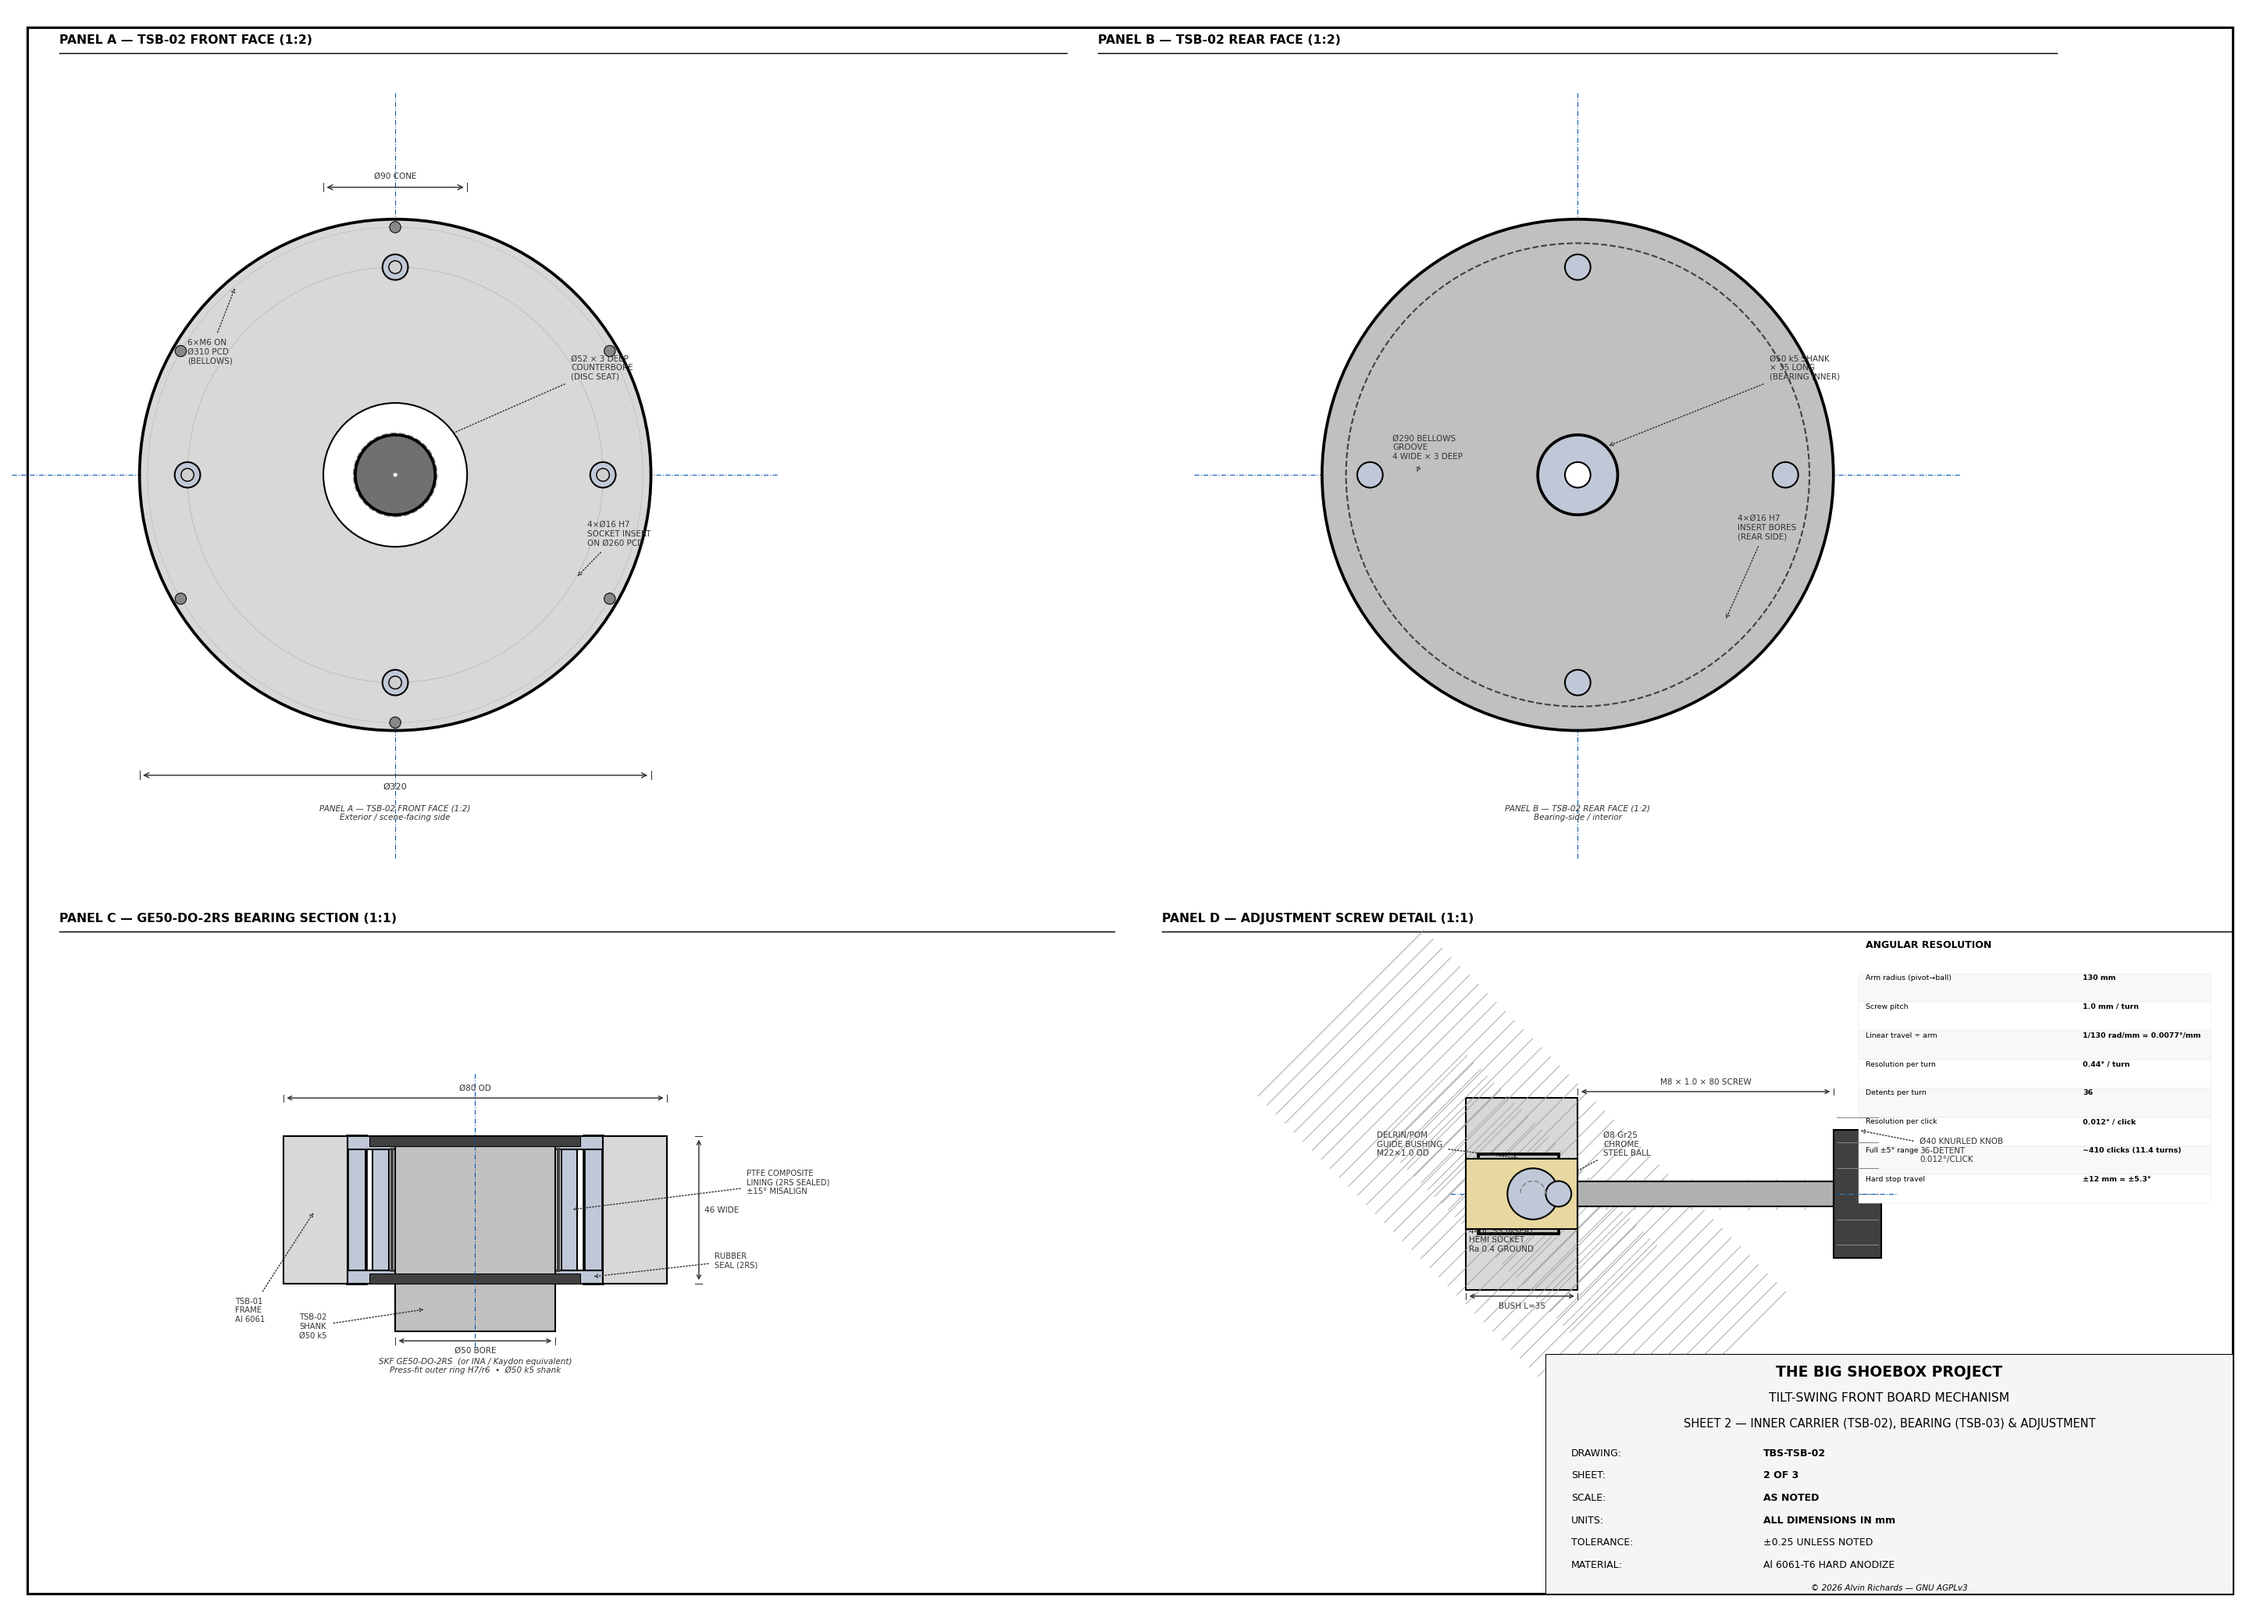
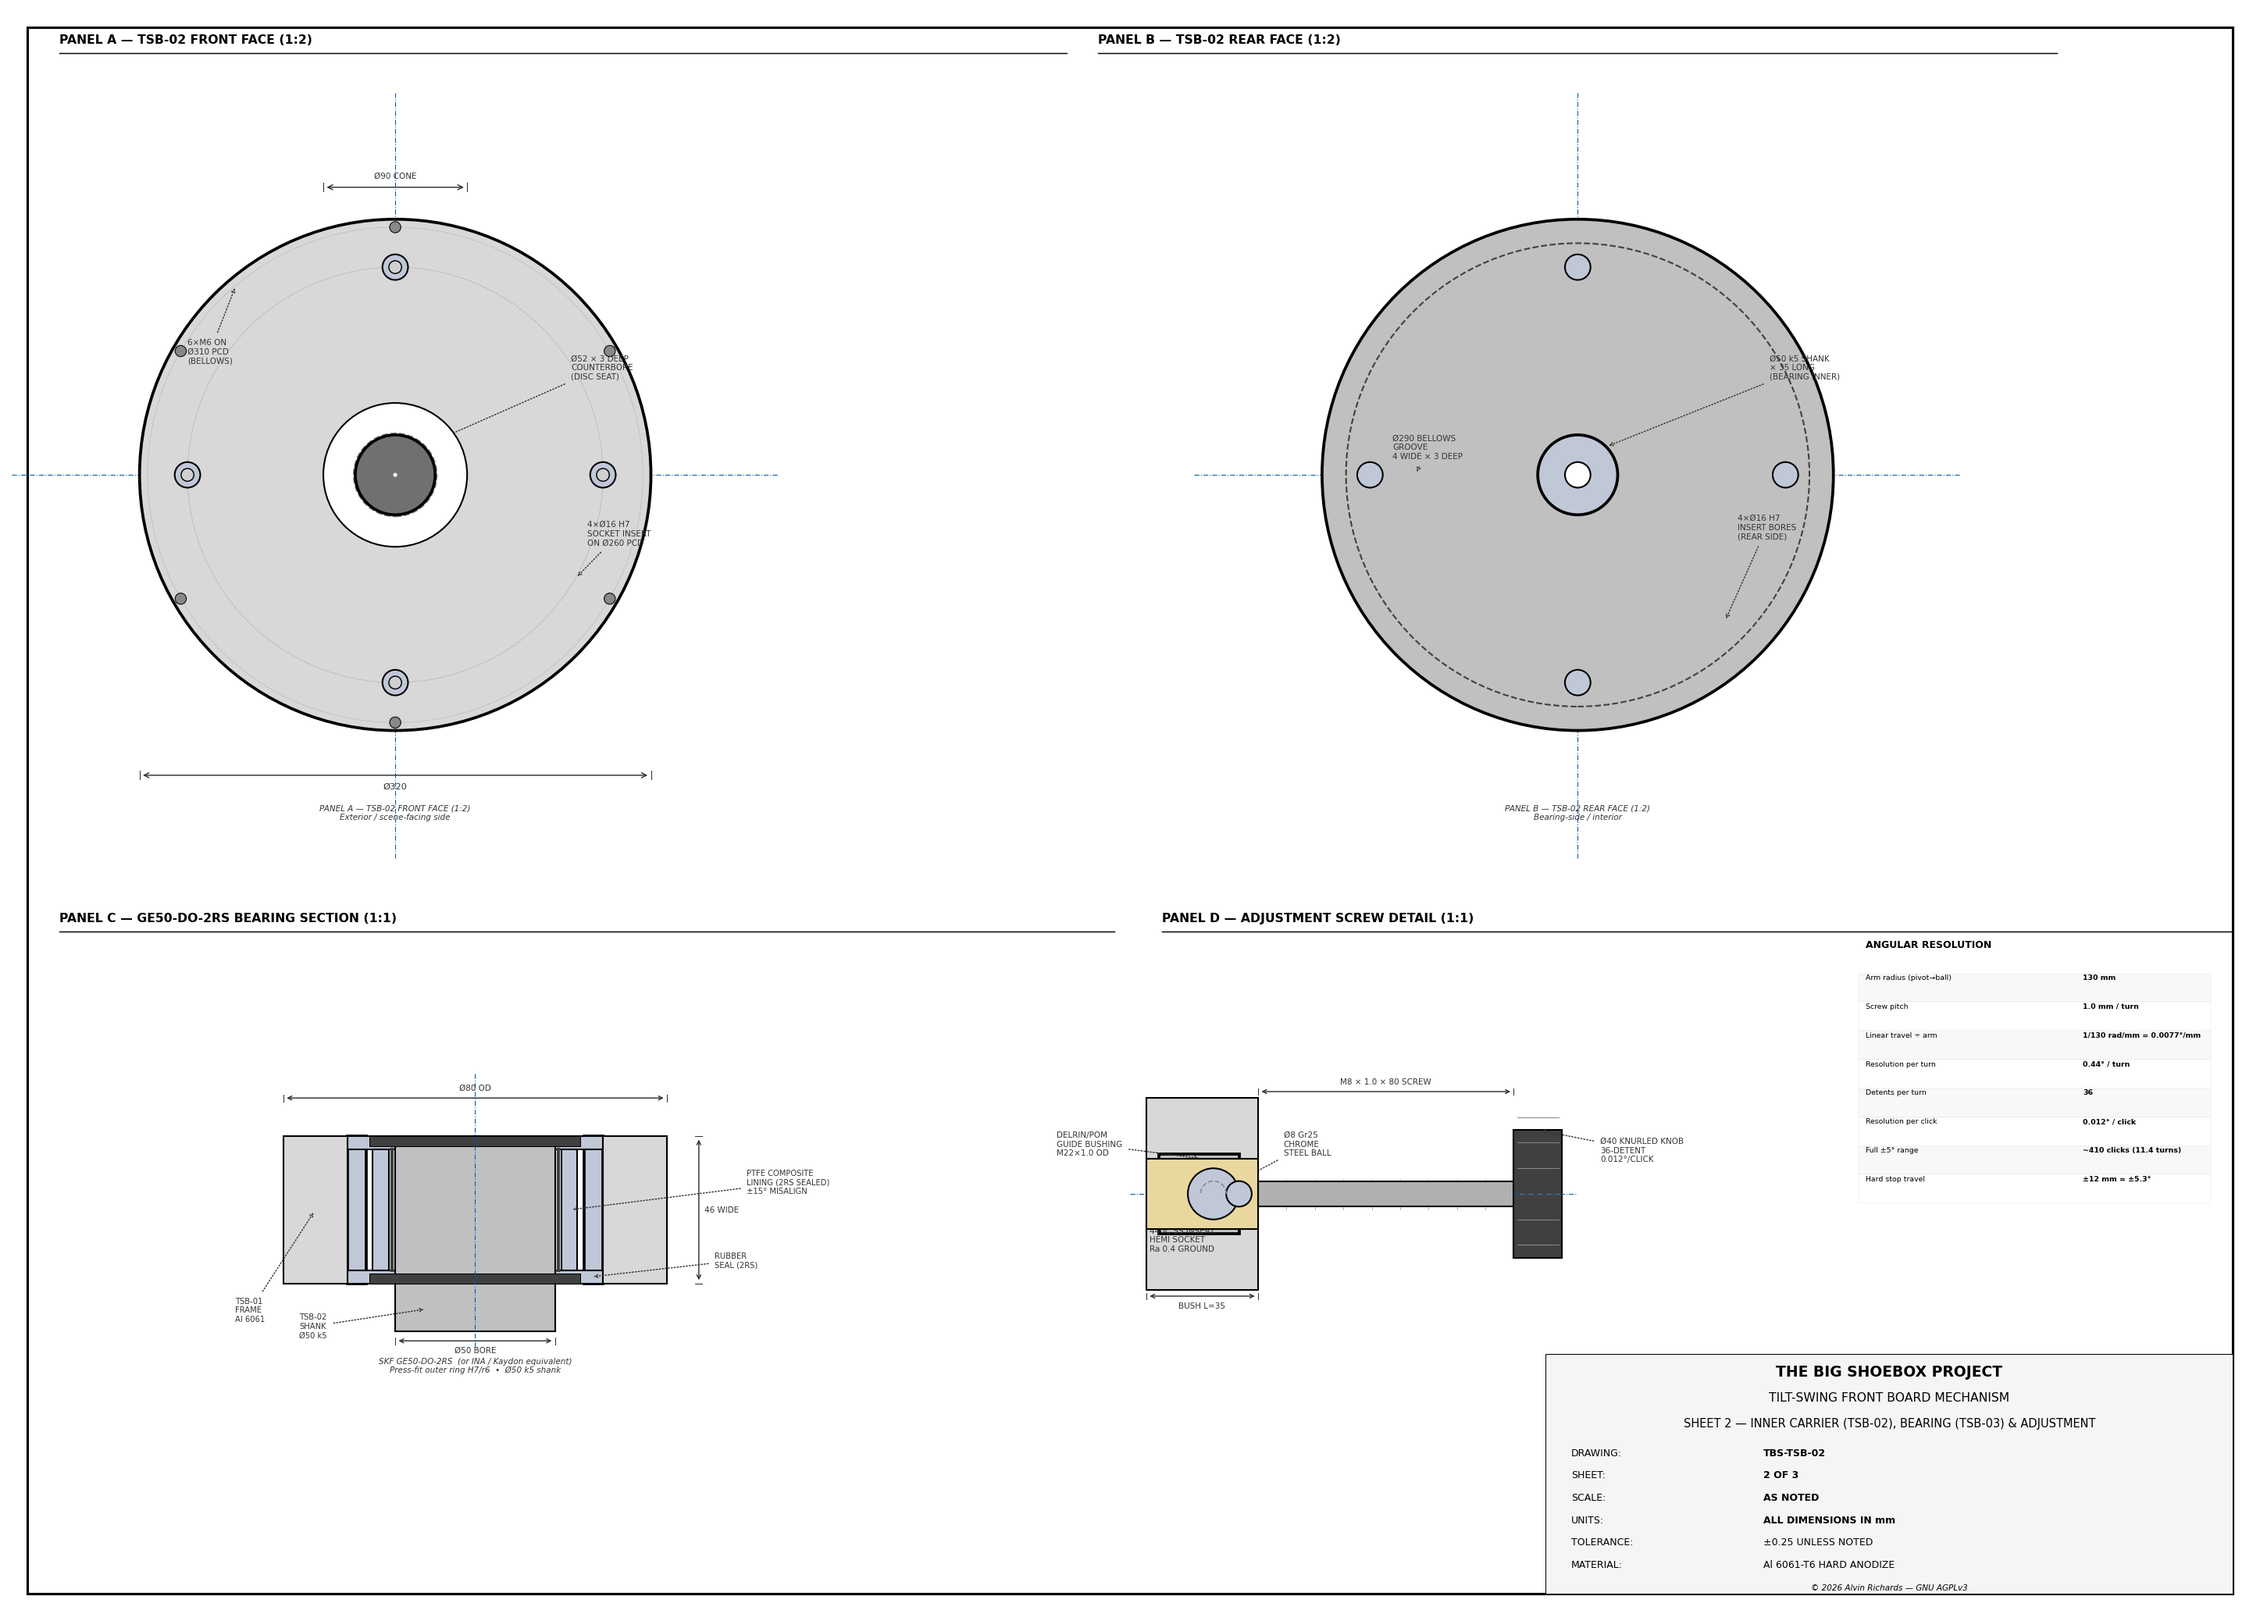
Tilt-swing-board sheet 2 Panel D: remove hatching, shift diagram left 30%
Remove hatching from frame wall and carrier plate. Shift diagram
center from X=490 to X=390 so the full screw assembly is visible
without overlapping the angular resolution table.

Changed region(s): [[0.4665, 0.6474, 0.8397, 0.8324]]

diff --git a/generate_tilt_swing_board.py b/generate_tilt_swing_board.py
@@ -840,7 +840,7 @@ ax2.text(cx2c, or_bot - 28, 'SKF GE50-DO-2RS  (or INA / Kaydon equivalent)\nPres
 ax2.text(360, 215, 'PANEL D — ADJUSTMENT SCREW DETAIL (1:1)', fontsize=7.5, fontweight='bold')
 ax2.plot([360, 695], [212, 212], color='black', lw=0.7)
 
-cx2d, cy2d = 490, 130
+cx2d, cy2d = 390, 130
 
 # Frame boss (outer adapter frame wall in section)
 frame_wall_w = s1b(35)
@@ -848,7 +848,6 @@ frame_wall_p = mpatches.Rectangle((cx2d - frame_wall_w, cy2d - s1b(30)),
                                    frame_wall_w, s1b(60),
                                    lw=LW_MED, edgecolor=C_OUT, facecolor=C_ALUM)
 ax2.add_patch(frame_wall_p)
-hatch_region(ax2, frame_wall_p, spacing=4, angle=45, color='#999999', lw=0.4)
 
 # Delrin bushing (M22×1.0 OD × M8 bore)
 bush_w = s1b(BUSH_L)
@@ -899,7 +898,6 @@ carrier_p2 = mpatches.Rectangle((ball_x2 - carrier_rim_w, cy2d - s1b(CARR_THICK/
                                   carrier_rim_w, s1b(CARR_THICK),
                                   lw=LW_THICK, edgecolor=C_OUT, facecolor='#C0C0C0', zorder=3)
 ax2.add_patch(carrier_p2)
-hatch_region(ax2, carrier_p2, spacing=3, angle=45, color='#A0A0A0', lw=0.4)
 # Socket insert
 sock_p = mpatches.Circle((ball_x2 - s1b(8), cy2d), s1b(8),
                            lw=LW_MED, edgecolor=C_OUT, facecolor=C_BEAR, zorder=5)
